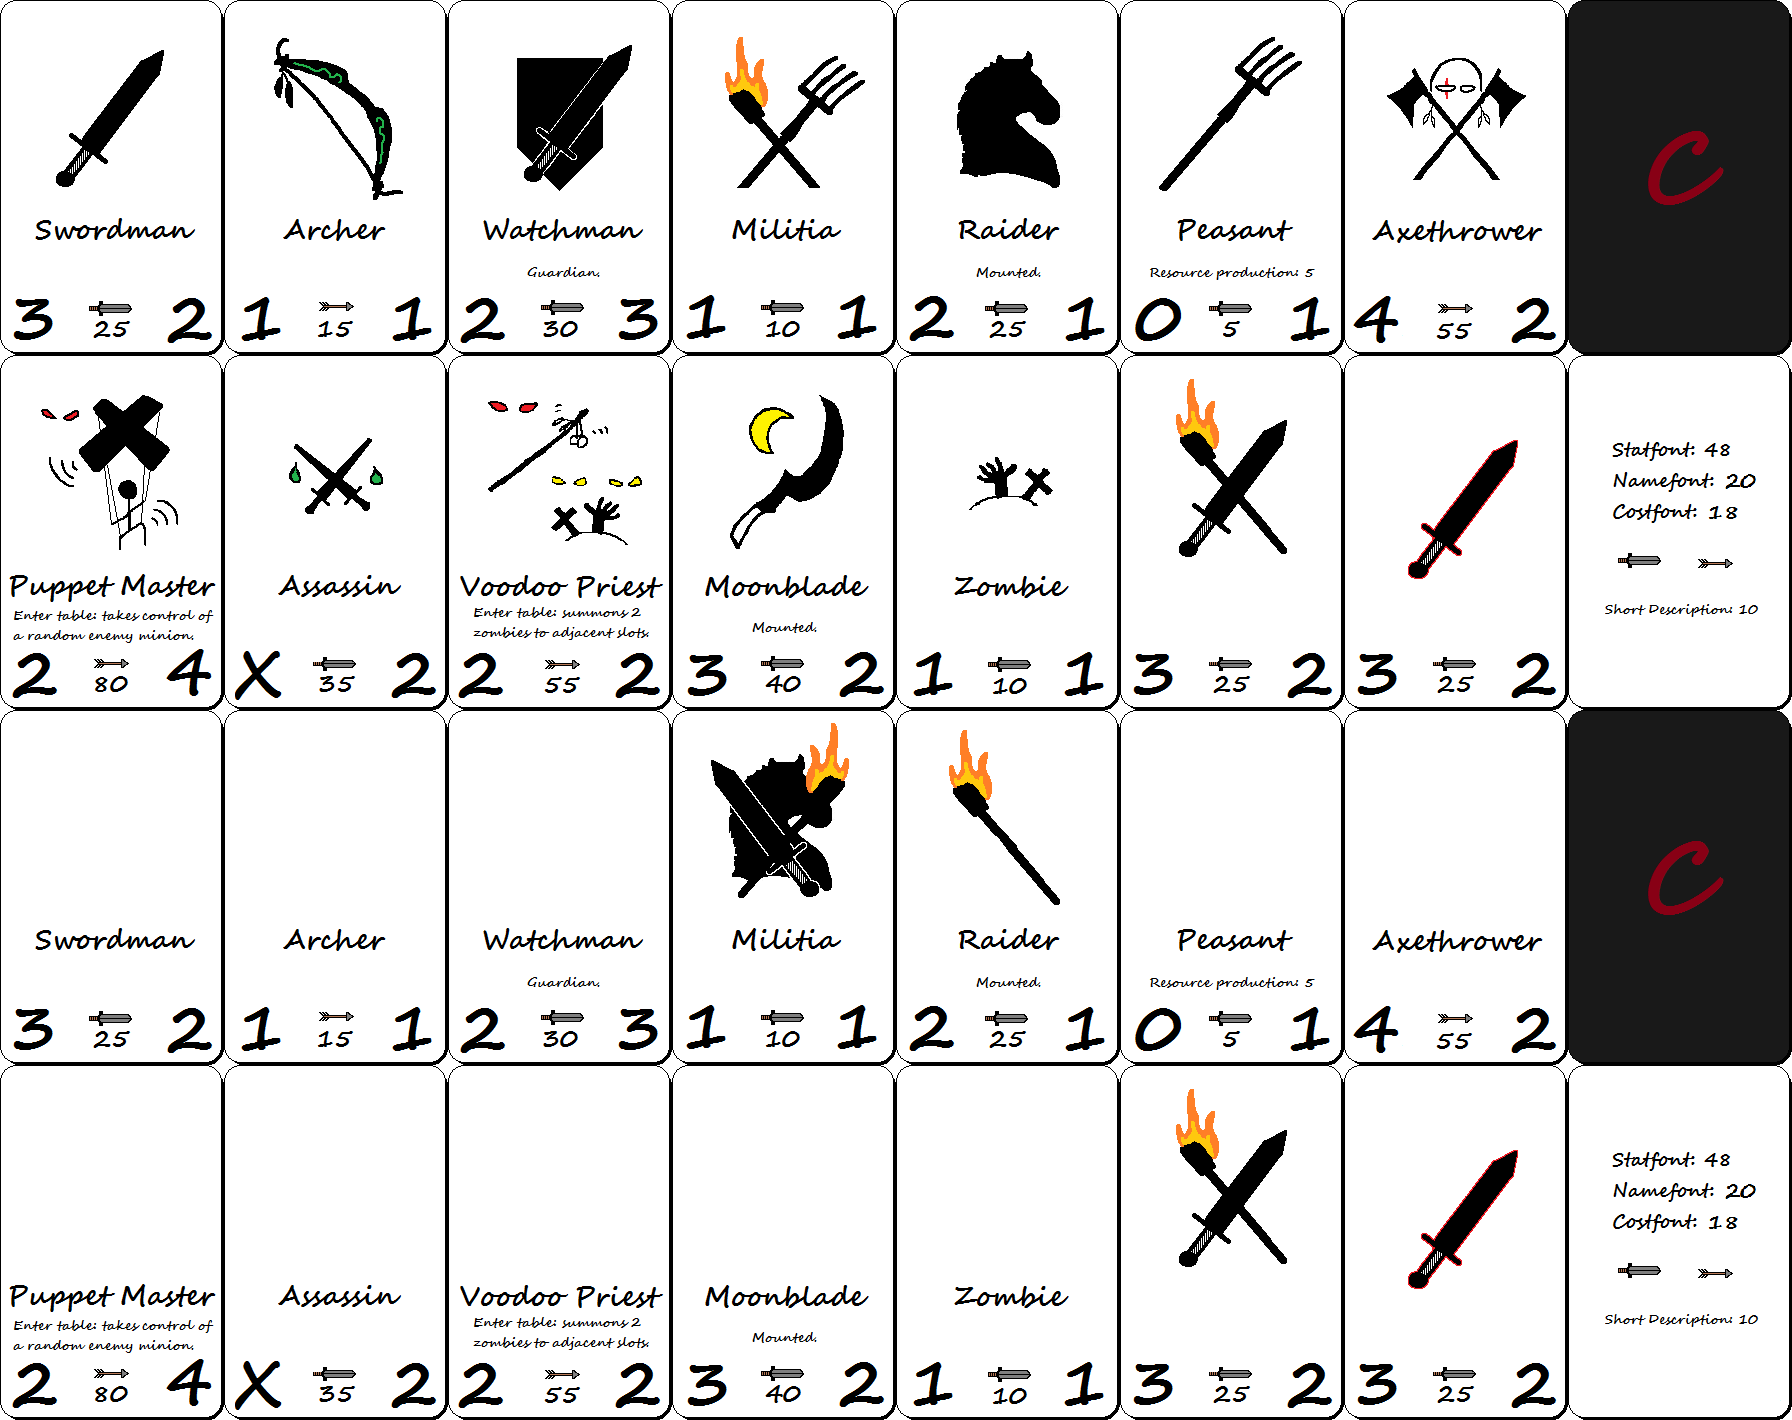
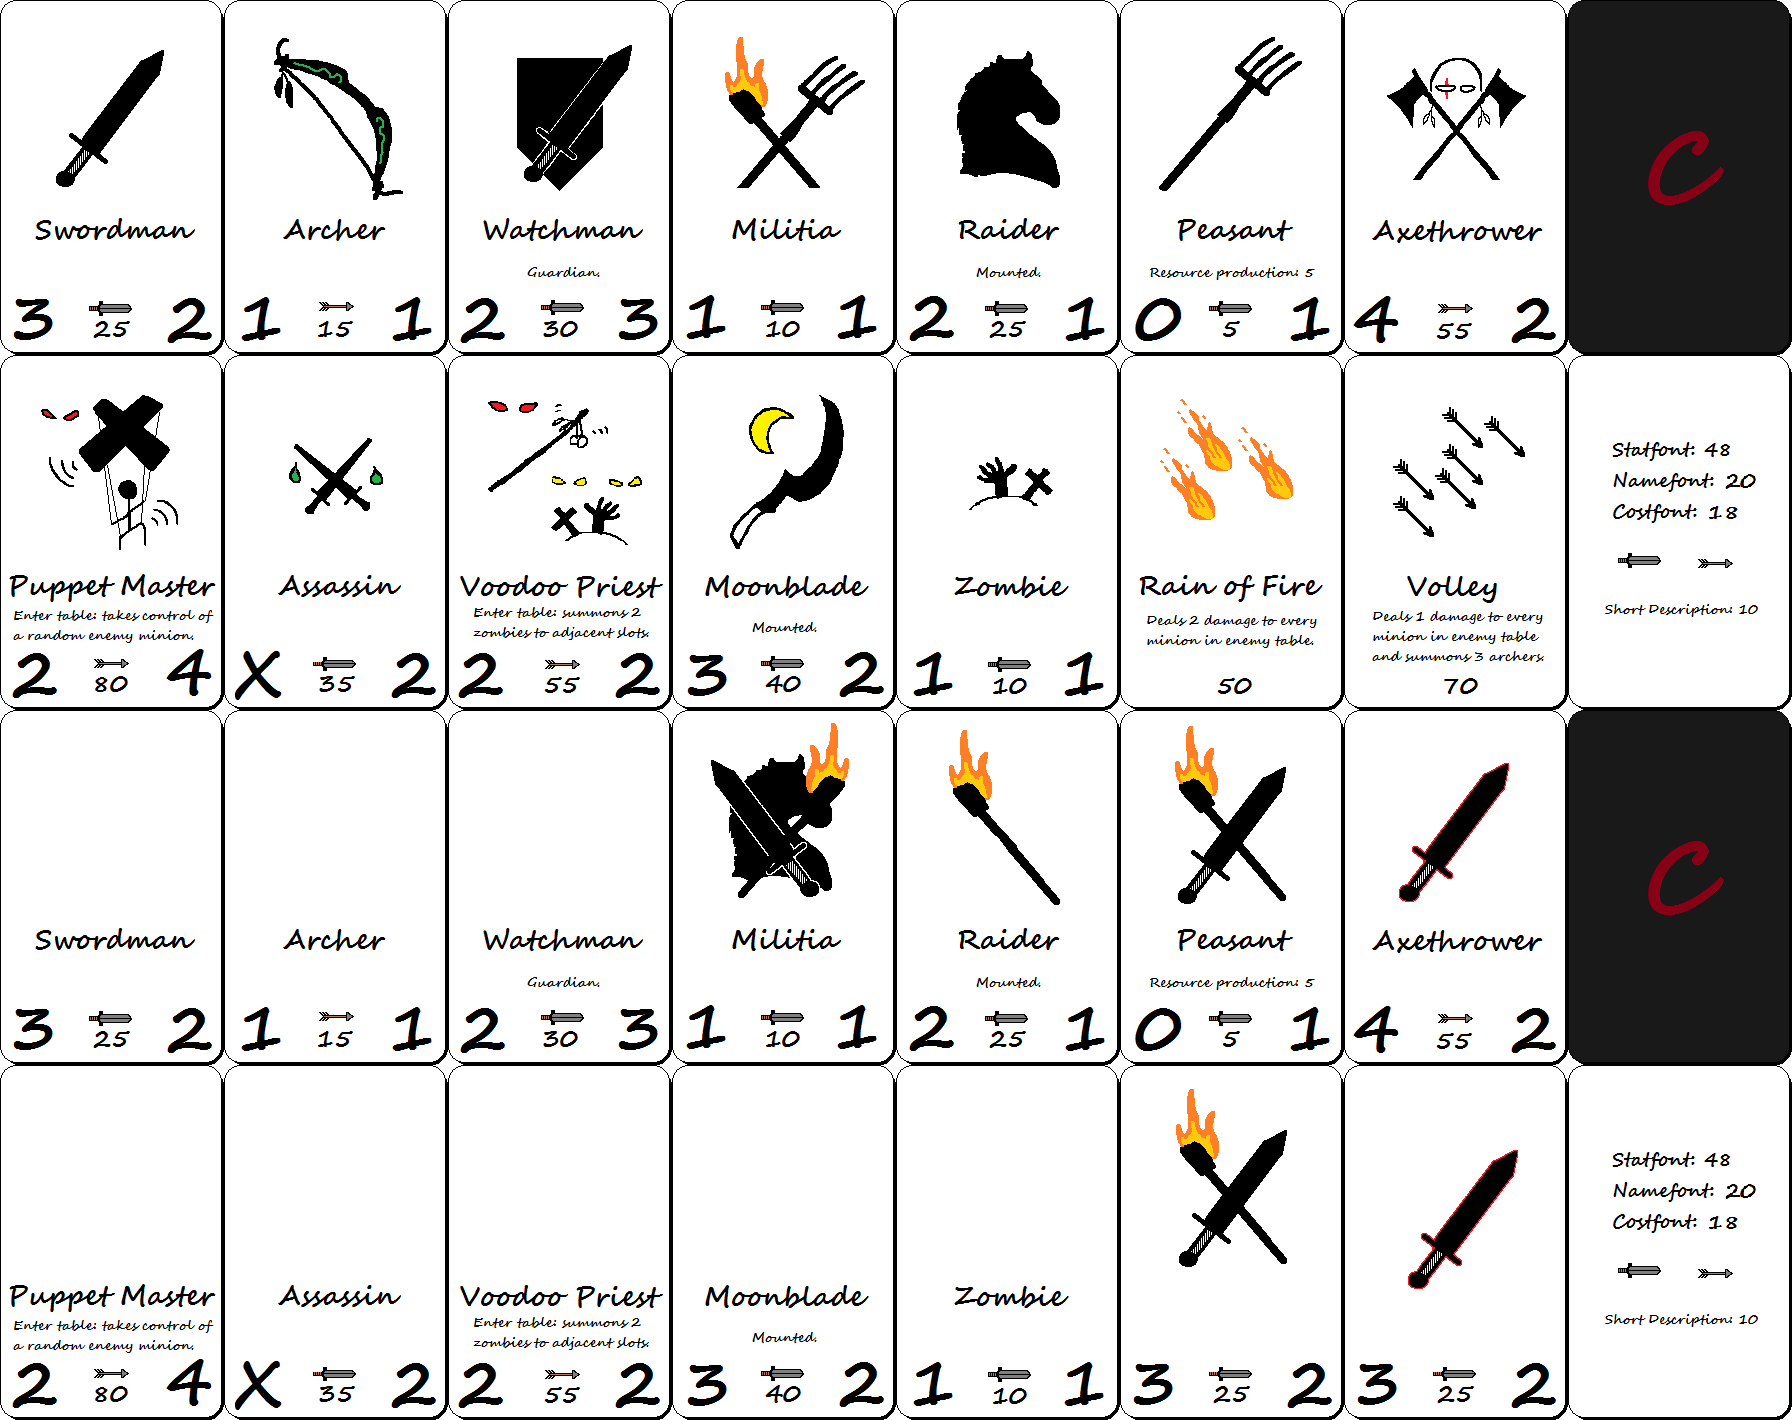
Rain of Fire and Volley pics etc.

Changed region(s): [[0.625, 0.2789, 0.875, 0.4958], [0.6562, 0.5268, 0.7188, 0.6507], [0.7812, 0.5268, 0.8438, 0.6507]]

diff --git a/Chatarum/src/main/java/cards/spells/Volley.java b/Chatarum/src/main/java/cards/spells/Volley.java
@@ -1,9 +1,11 @@
 package cards.spells;
 
 import cards.OffensiveAOE;
+import cards.minions.Archer;
 import game.assets.Assets;
 import game.logic.LogicHandler;
 import game.logic.Player;
+import game.ui.Locations;
 import java.awt.Font;
 import java.awt.Graphics;
 
@@ -19,31 +21,44 @@ public class Volley extends OffensiveAOE {
 
     @Override
     public void clickEnemyTable(LogicHandler handler, Player playerA, Player playerB) {
-        throw new UnsupportedOperationException("Not supported yet.");
+        for (int i = 0; i < 8; i++) {
+            if (playerB.getTable().getMinions()[i] != null) {
+                playerB.getTable().getMinions()[i].changeHealth(-1);
+                if (playerB.getTable().getMinions()[i].getHealth() <= 0) {
+                    playerB.getTable().removeMinion(i);
+                }
+            }
+        }
+        
+        int archers = 3;
+        for (int i = 0; i < 8; i++) {
+            if (archers > 0) {
+                if (playerA.getTable().getMinions()[i] == null) {
+                    playerA.getTable().getMinions()[i] = new Archer();
+                    archers--;
+                }
+            }
+        }
+        playerA.changeRemainingResources(-playerA.getHand().getCards().get(handler.getChosenHandOffensiveAOESlot()).getCost());
+        playerA.getHand().takeCard(handler.getChosenHandOffensiveAOESlot());
+
+        handler.clearChosen();
+        handler.updateCardPositions();
+        handler.getUi().repaint();
     }
 
     @Override
     public void paintComponent(Graphics g) {
-        // Draw placeholder.
-        g.drawRoundRect(getX(), getY(), Assets.smallWidth, Assets.smallHeight, 21, 21);
-
-        Font font = new Font("Serif", Font.BOLD, Assets.statTextFont);
-        g.setFont(font);
-        g.drawString("  " + getName(), getX() + 5, getY() + 2 * Assets.smallHeight / 3);
-
-        font = new Font("Serif", Font.BOLD, (int) (Assets.statTextFont / 1.5));
-        g.setFont(font);
-        g.drawString("Deals 2 AOE damage.", getX() + 5, getY() + 4 * Assets.smallHeight / 5);
-
-        font = new Font("Serif", Font.BOLD, (int) (Assets.statTextFont / 1.2));
-        g.setFont(font);
-        g.drawString("" + getCost(), getX() + Assets.smallWidth / 2, getY() + Assets.smallHeight - 5);
-
-        g.drawString("   <Placeholder>", getX() + 5, getY() + Assets.smallHeight / 3);
+        g.drawImage(Assets.volleySmall, super.getX(), super.getY(), null);
     }
     
     public void paintHover(Graphics g) {
-        g.drawImage(Assets.archerBig, super.getX(), super.getY(), null);
+        if (super.getY() <= Locations.tableSlotsY) {
+            g.drawImage(Assets.volleyBig, super.getX() - (Assets.bigWidth - Assets.smallWidth) 
+                    / 2, super.getY(), null);
+        } else {
+            g.drawImage(Assets.volleyBig, super.getX() - (Assets.bigWidth - Assets.smallWidth) 
+                    / 2, super.getY() - (Assets.bigHeight - Assets.smallHeight), null);
+        }
     }
-
 }

diff --git a/Chatarum/src/main/java/game/assets/Assets.java b/Chatarum/src/main/java/game/assets/Assets.java
@@ -43,13 +43,13 @@ public class Assets {
     public static int bigWidth = 224, bigHeight = 355;
     public static BufferedImage swordmanBig, archerBig, watchmanBig, militiaBig,
             raiderBig, peasantBig, axethrowerBig, puppetMasterBig, assassinBig, 
-            voodooPriestBig, moonbladeBig, zombieBig;
+            voodooPriestBig, moonbladeBig, zombieBig, rainOfFireBig, volleyBig;
 
     // Small pictures of cards.
     public static int smallWidth = 125, smallHeight = 198;
     public static BufferedImage swordmanSmall, archerSmall, watchmanSmall,
             militiaSmall, raiderSmall, peasantSmall, axethrowerSmall, puppetMasterSmall, assassinSmall, 
-            voodooPriestSmall, moonbladeSmall, zombieSmall;
+            voodooPriestSmall, moonbladeSmall, zombieSmall, rainOfFireSmall, volleySmall;
 
     // Cardbacks.
     public static BufferedImage neutralCardBack;
@@ -112,6 +112,8 @@ public class Assets {
         voodooPriestBig = neutralBig.crop(bigWidth * 2, bigHeight, bigWidth, bigHeight);
         moonbladeBig = neutralBig.crop(bigWidth * 3, bigHeight, bigWidth, bigHeight);
         zombieBig = neutralBig.crop(bigWidth * 4, bigHeight, bigWidth, bigHeight);
+        rainOfFireBig = neutralBig.crop(bigWidth * 5, bigHeight, bigWidth, bigHeight);
+        volleyBig = neutralBig.crop(bigWidth * 6, bigHeight, bigWidth, bigHeight);
 
         swordmanSmall = neutralSmall.crop(0, 0, smallWidth, smallHeight);
         archerSmall = neutralSmall.crop(smallWidth, 0, smallWidth, smallHeight);
@@ -125,7 +127,8 @@ public class Assets {
         voodooPriestSmall = neutralSmall.crop(smallWidth * 2, smallHeight, smallWidth, smallHeight);
         moonbladeSmall = neutralSmall.crop(smallWidth * 3, smallHeight, smallWidth, smallHeight);
         zombieSmall = neutralSmall.crop(smallWidth * 4, smallHeight, smallWidth, smallHeight);
-        
+        rainOfFireSmall = neutralSmall.crop(smallWidth * 5, smallHeight, smallWidth, smallHeight);
+        volleySmall = neutralSmall.crop(smallWidth * 6, smallHeight, smallWidth, smallHeight);
     }
 
     private static void loadIcons() { // MAKE SPRITESHEET LATER AND CROP
@@ -188,6 +191,8 @@ public class Assets {
         voodooPriestBig = resize(voodooPriestBig, scale);
         moonbladeBig = resize(moonbladeBig, scale);
         zombieBig = resize(zombieBig, scale);
+        rainOfFireBig = resize(rainOfFireBig, scale);
+        volleyBig = resize(volleyBig, scale);
 
         swordmanSmall = resize(swordmanSmall, scale);
         archerSmall = resize(archerSmall, scale);
@@ -201,6 +206,8 @@ public class Assets {
         voodooPriestSmall = resize(voodooPriestSmall, scale);
         moonbladeSmall = resize(moonbladeSmall, scale);
         zombieSmall = resize(zombieSmall, scale);
+        rainOfFireSmall = resize(rainOfFireSmall, scale);
+        volleySmall = resize(volleySmall, scale);
         
         guardianIcon = resize(guardianIcon, scale);
         turnLeftIcon = resize(turnLeftIcon, scale);

diff --git a/Chatarum/src/main/java/game/logic/DeckBuilder.java b/Chatarum/src/main/java/game/logic/DeckBuilder.java
@@ -13,6 +13,7 @@ import cards.minions.Swordman;
 import cards.minions.VoodooPriest;
 import cards.minions.Watchman;
 import cards.spells.RainOfFire;
+import cards.spells.Volley;
 
 /**
  * Temporary class for making the decks for gameplay programming tests. In final
@@ -38,33 +39,35 @@ public class DeckBuilder {
      *
      */
     public void init() {
+        deck1.addCard(new RainOfFire());
+        deck1.addCard(new PuppetMaster());
+        deck1.addCard(new VoodooPriest());
+        deck1.addCard(new Axethrower());
         for (int i = 0; i < 5; i++) {
-            deck1.addCard(new RainOfFire());
+            deck1.addCard(new Volley());
             deck1.addCard(new Swordman());
             deck1.addCard(new Archer());
             deck1.addCard(new Militia());
             deck1.addCard(new Peasant());
             deck1.addCard(new Raider());
             deck1.addCard(new Watchman());
-            deck1.addCard(new PuppetMaster());
-            deck1.addCard(new Axethrower());
             deck1.addCard(new Assassin());
-            deck1.addCard(new VoodooPriest());
             deck1.addCard(new Moonblade());
         }
-
+        
+        deck2.addCard(new RainOfFire());
+        deck2.addCard(new PuppetMaster());
+        deck2.addCard(new VoodooPriest());
+        deck2.addCard(new Axethrower());
         for (int i = 0; i < 5; i++) {
-            deck2.addCard(new RainOfFire());
+            deck2.addCard(new Volley());
             deck2.addCard(new Swordman());
             deck2.addCard(new Archer());
             deck2.addCard(new Militia());
             deck2.addCard(new Peasant());
             deck2.addCard(new Raider());
             deck2.addCard(new Watchman());
-            deck2.addCard(new PuppetMaster());
-            deck2.addCard(new Axethrower());
             deck2.addCard(new Assassin());
-            deck2.addCard(new VoodooPriest());
             deck2.addCard(new Moonblade());
         }
     }

diff --git a/Chatarum/src/main/java/cards/spells/RainOfFire.java b/Chatarum/src/main/java/cards/spells/RainOfFire.java
@@ -39,25 +39,16 @@ public class RainOfFire extends OffensiveAOE {
 
     @Override
     public void paintComponent(Graphics g) {
-        // Draw placeholder.
-        g.drawRoundRect(getX(), getY(), Assets.smallWidth, Assets.smallHeight, 21, 21);
-
-        Font font = new Font("Serif", Font.BOLD, Assets.statTextFont);
-        g.setFont(font);
-        g.drawString("  " + getName(), getX() + 5, getY() + 2 * Assets.smallHeight / 3);
-
-        font = new Font("Serif", Font.BOLD, (int) (Assets.statTextFont / 1.5));
-        g.setFont(font);
-        g.drawString("Deals 2 AOE damage.", getX() + 5, getY() + 4 * Assets.smallHeight / 5);
-
-        font = new Font("Serif", Font.BOLD, (int) (Assets.statTextFont / 1.2));
-        g.setFont(font);
-        g.drawString("" + getCost(), getX() + Assets.smallWidth / 2, getY() + Assets.smallHeight - 5);
-
-        g.drawString("   <Placeholder>", getX() + 5, getY() + Assets.smallHeight / 3);
+        g.drawImage(Assets.rainOfFireSmall, super.getX(), super.getY(), null);
     }
     
     public void paintHover(Graphics g) {
-        g.drawImage(Assets.archerBig, super.getX(), super.getY(), null);
+        if (super.getY() <= Locations.tableSlotsY) {
+            g.drawImage(Assets.rainOfFireBig, super.getX() - (Assets.bigWidth - Assets.smallWidth) 
+                    / 2, super.getY(), null);
+        } else {
+            g.drawImage(Assets.rainOfFireBig, super.getX() - (Assets.bigWidth - Assets.smallWidth) 
+                    / 2, super.getY() - (Assets.bigHeight - Assets.smallHeight), null);
+        }
     }
 }

diff --git a/Chatarum/src/main/java/cards/Card.java b/Chatarum/src/main/java/cards/Card.java
@@ -1,7 +1,9 @@
 package cards;
 
+import game.assets.Assets;
 import game.logic.LogicHandler;
 import java.awt.Component;
+import java.awt.Font;
 import java.awt.Graphics;
 import java.awt.event.MouseListener;
 import java.awt.image.BufferedImage;
@@ -47,8 +49,25 @@ public abstract class Card {
         this.y = y;
     }
 
-    public abstract void paintComponent(Graphics g);
-    
+    public void paintComponent(Graphics g) {
+        // Draw placeholder.
+        g.drawRoundRect(getX(), getY(), Assets.smallWidth, Assets.smallHeight, 21, 21);
+
+        Font font = new Font("Serif", Font.BOLD, Assets.statTextFont);
+        g.setFont(font);
+        g.drawString("  " + getName(), getX() + 5, getY() + 2 * Assets.smallHeight / 3);
+
+        font = new Font("Serif", Font.BOLD, (int) (Assets.statTextFont / 1.5));
+        g.setFont(font);
+        g.drawString("Deals 2 AOE damage.", getX() + 5, getY() + 4 * Assets.smallHeight / 5);
+
+        font = new Font("Serif", Font.BOLD, (int) (Assets.statTextFont / 1.2));
+        g.setFont(font);
+        g.drawString("" + getCost(), getX() + Assets.smallWidth / 2, getY() + Assets.smallHeight - 5);
+
+        g.drawString("   <Placeholder>", getX() + 5, getY() + Assets.smallHeight / 3);
+    }
+
     public abstract void paintHover(Graphics g);
 
     /**

diff --git a/Chatarum/src/main/java/game/logic/LogicHandler.java b/Chatarum/src/main/java/game/logic/LogicHandler.java
@@ -179,6 +179,8 @@ public class LogicHandler {
             card.clickInHand(this, slot);
         } else {
             clearChosen();
+            /*player.getHand().getCards().get(slot).paintHover(ui.getGraphics());
+            ui.repaint();*/
         }
     }
 
@@ -410,7 +412,7 @@ public class LogicHandler {
     }
 
     public void playerAHandHover(int x, int y, Player player) {
-        if (chosenHandMinion == null) {
+        if (chosenHandMinion == null && chosenHandOffensiveAOE == null) {
             for (int i = 0; i < player.getHand().getRemaining(); i++) {
                 if (x >= player.getHand().getCards().get(i).getX()
                         && x <= player.getHand().getCards().get(i).getX() + Assets.smallWidth) {

diff --git a/Chatarum/src/main/java/cards/minions/Archer.java b/Chatarum/src/main/java/cards/minions/Archer.java
@@ -22,6 +22,7 @@ public class Archer extends Minion {
         g.drawImage(Assets.archerSmall, super.getX(), super.getY(), null);
     }
     
+    @Override
     public void paintHover(Graphics g) {
         if (super.getY() <= Locations.tableSlotsY) {
             g.drawImage(Assets.archerBig, super.getX() - (Assets.bigWidth - Assets.smallWidth) 
